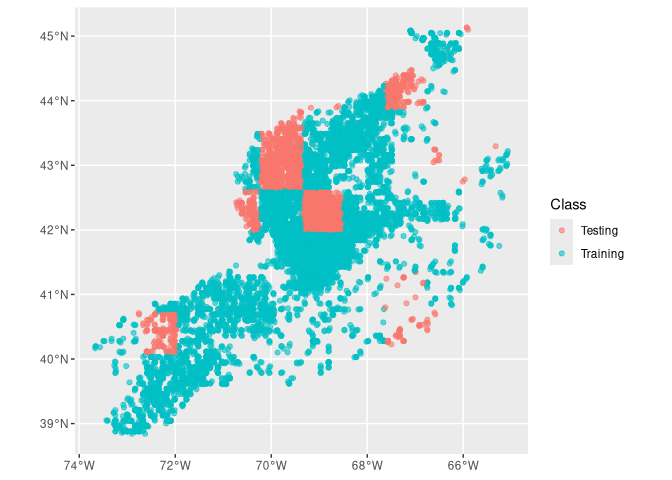
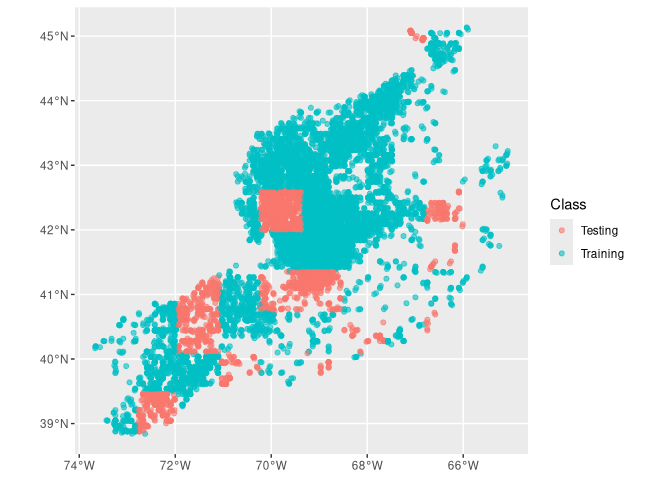
FORECASTING

diff --git a/Forecasting-Izzy-Gottlieb.md b/Forecasting-Izzy-Gottlieb.md
@@ -18,31 +18,35 @@ a prediction on the distribution of Basking Sharks in the year 2050 and
 beyond.
 
 DATA and MODELS
+
 ![](Forecasting-Izzy-Gottlieb_files/figure-gfm/summer_distrib-1.png)<!-- -->
+
 Figure 1: The numbers of Basking Sharks over a normal year. Notice that
 the majority of the sharks are seen between the months of April and
 August, with a majority in June. This tell us that Basking Sharks prefer
 warmer temperatures, specifically temperatures in the warmer temperate
-regions (Sims,2008). Knowing that Basking Sharks prefer warmer waters
-doesn’t tell us enough about their distribution in the past and future,
-because even if the climate warms, why would the Basking Sharks care? A
-good reason for why this matters is because of prey preferences. First,
-Basking Sharks, like many other filter-feeders, travel along the
-currents and follow their prey. Unlike species that are smaller and
-require less microscopic food to sustain basic functions, the Basking
-Shark requires a high density of plankton in order to survive. Basking
-Sharks, as well as other predators in the area, such as the endangered
-North Atlantic Right Whale, feed on copepods like Calanus finmarchicus
-or C.fin. While Basking Sharks may not have a strict preference in
-temperatures, C.fin do. Warming global temperatures may displace
-populations of this food source and may cause their predators to move
-elsewhere.
+regions (Sims,2008).
+
+Knowing that Basking Sharks prefer warmer waters doesn’t tell us enough
+about their distribution in the past and future, because even if the
+climate warms, why would the Basking Sharks care? A good reason for why
+this matters is because of prey preferences. First, Basking Sharks, like
+many other filter-feeders, travel along the currents and follow their
+prey. Unlike species that are smaller and require less microscopic food
+to sustain basic functions, the Basking Shark requires a high density of
+plankton in order to survive. Basking Sharks, as well as other predators
+in the area, such as the endangered North Atlantic Right Whale, feed on
+copepods like Calanus finmarchicus or C.fin. While Basking Sharks may
+not have a strict preference in temperatures, C.fin do. Warming global
+temperatures may displace populations of this food source and may cause
+their predators to move elsewhere.
 
     ## Please point your browser to the following url:
 
     ## https://api.obis.org/v3/occurrence/0005bdf5-aeb9-4804-b56b-95f98597bffe
 
 ![](Forecasting-Izzy-Gottlieb_files/figure-gfm/plot_month3-1.png)<!-- -->
+
 Figure 2: The same monthly distribution but looking at Calanus
 finmarchicus.Unfortunatly, this data doesn’t provide enough information
 to determine if there is a preference. If there was a spike in one month
@@ -52,21 +56,31 @@ have been conducted before to determine how temperatures impact the life
 cycle of C.fin. Below is the Individual Base model described in Figure 2
 of the journal article, “Coastal Amplifications of supply and transport
 (CAST): a new hypothesis about the persistence of Calanus finmarchicus
-in the Gulf of Maine.” ![see Ji et al 2017](images/Rubeo.png) In
-addition, there is a range in change in development time in the species
-with an x-value of temperature. It is important to note that as the
-temperature goes up, the development time goes down. This change is seen
-between N3-C5 range, Egg to C5 range, and Egg to Adult range as shown
-below. ![see Ji et al 2017](images/RubeoJi2.png) So now we know that
-prey distribution matters. Next, we shall create graphs for both the
-current distribution of Basking Sharks as well as the distribution of
-Calanus finmarchicus. It is highly unlikely that this alone matters for
-forecasting the future of Cetorhinus maximus. For example, boating
-accidents and poaching may be an important factor as seen with Right
-Whales(Ross et al,.2021).
+in the Gulf of Maine.”
+
+![see Ji et al 2017](images/Rubeo.png) In addition, there is a range in
+change in development time in the species with an x-value of
+temperature. It is important to note that as the temperature goes up,
+the development time goes down. This change is seen between N3-C5 range,
+Egg to C5 range, and Egg to Adult range as shown below.
+
+<figure>
+<img src="images/RubeoJi2.png" alt="see Ji et al 2017" />
+<figcaption aria-hidden="true">see Ji et al 2017</figcaption>
+</figure>
+
+So now we know that prey distribution matters. Next, we shall create
+graphs for both the current distribution of Basking Sharks as well as
+the distribution of Calanus finmarchicus. It is highly unlikely that
+this alone matters for forecasting the future of Cetorhinus maximus. For
+example, boating accidents and poaching may be an important factor as
+seen with Right Whales(Ross et al,.2021).
+
 ![](Forecasting-Izzy-Gottlieb_files/figure-gfm/load_obs_mask-1.png)<!-- -->
+
 Figure 3: A visualization of where the Basking Sharks are located and
 during which months. The data has been thinned to not include NA values.
+
 Figure 3 proves the observation in Figure 1, so it is clear that the
 Basking Sharks are seen more frequently in between the months of May and
 August, with the maximum located in June and the minimum located in
@@ -74,13 +88,16 @@ January. This matters because it can be compared to the changes in
 distribution with Calanus finmarchicus. When looking at the northeastern
 ocean database, changes in the density of C.fin can be seen over spring,
 summer, fall, and winter between the range of year 2003-2009 and
-2010-2021. (INSERT PICTURES)Figure 3a, 3b, 3c, 3d
+2010-2021. Figure 3a, 3b, 3c, 3d
 
 ![](Forecasting-Izzy-Gottlieb_files/figure-gfm/bias_map-1.png)<!-- -->
+
 Figure 4: Bias map of all observations. A majority of the sightings
 appear to be located in a central area. It is unknown why, but that is
 why we will be looking at co-variables that might influence their range.
+
 ![](Forecasting-Izzy-Gottlieb_files/figure-gfm/read_brickman-1.png)<!-- -->![](Forecasting-Izzy-Gottlieb_files/figure-gfm/read_brickman-2.png)<!-- -->
+
 Figure 5: The covariables. These results show that a forecast has a high
 chance of being inaccurate due to the variance of the data. Some data is
 simple, such as depth revealing that both presence and background class
@@ -91,17 +108,23 @@ date on Calanus finmarchicus, it makes sense that a specific predator
 would spend more time in a location where their prey may have a stronger
 preference. In relation to Calanus finamarchicus, it has been stated in
 many studies that they are extremely sensitive to changes in
-temperatures. (Rubao Ji et al,2017). ![see Grieve et al
-2017](images/Forecast_CFin.png) According to the above projections based
-on C.fin samples taken between the years 1977-2013, the population of
-the copepods will get progressively low in both RCP 4.5 and RCP 8.5
-figures showing density within the May-June range. The change in density
-with the forecast model is significant and mirrors the changes mentioned
-in the observed density over different seasons and year ranges in
-figures 3a, 3b, 3c, and 3d. The change occuring in the year range
-2003-2009 and 2010-2021 seems similar to the change occurring between
-the year range 2041-2060 and 2081-2100. This shows that both models can
-be reliable since both models predict a downward trend in density.
+temperatures. (Rubao Ji et al,2017).
+
+<figure>
+<img src="images/Forecast_CFin.png" alt="see Grieve et al 2017" />
+<figcaption aria-hidden="true">see Grieve et al 2017</figcaption>
+</figure>
+
+According to the above projections based on C.fin samples taken between
+the years 1977-2013, the population of the copepods will get
+progressively low in both RCP 4.5 and RCP 8.5 figures showing density
+within the May-June range. The change in density with the forecast model
+is significant and mirrors the changes mentioned in the observed density
+over different seasons and year ranges in figures 3a, 3b, 3c, and 3d.
+The change occuring in the year range 2003-2009 and 2010-2021 seems
+similar to the change occurring between the year range 2041-2060 and
+2081-2100. This shows that both models can be reliable since both models
+predict a downward trend in density.
 
 Forecast
 
@@ -111,16 +134,21 @@ finmarchicus may provide information about prey and potential shared
 predators, the difference is still clear: Basking Sharks aren’t right
 whales and the data deficiency makes forecasting accuracy decrease. One
 method is through R-studio with the figure below:
+
 ![](Forecasting-Izzy-Gottlieb_files/figure-gfm/load_data-1.png)<!-- -->
+
 Figure 6: Spatial training data. Like the Ai model mentioned later, the
 data is fed into a system and separated into testing and training.
+
 ![](Forecasting-Izzy-Gottlieb_files/figure-gfm/tr_data-1.png)<!-- -->![](Forecasting-Izzy-Gottlieb_files/figure-gfm/tr_data-2.png)<!-- -->
+
 Figure 7: The confusion matrix for the data as well as the accuracy of
 different methods of forecasting. Based off of this information and the
 “AUC:” values we can see that a random forest(default_rf) model would
 work best with accuracy at 0.810. The second best option is a boosted
 tree format. The accuracy isn’t too low to make a prediction in other
 formats, but accuracy is important when making forecasts.
+
 ![](Forecasting-Izzy-Gottlieb_files/figure-gfm/rf-1.png)<!-- -->
 
 Figure 8: The forecast with different covariables.
@@ -188,6 +216,7 @@ here unmentioned until now so below is Figure 9: the change in the
 presence of Basking sharks over many year. This wasn’t mentioned
 previously due to the lack of definitive proof that specific years had
 more of an impact than others.
+
 ![](Forecasting-Izzy-Gottlieb_files/figure-gfm/counts_per_year-1.png)<!-- -->
 Figure 9: Counts per year. There is a spike in population in 2002, a
 decrease in 2010, an increase a year later, and a sharp increase in
